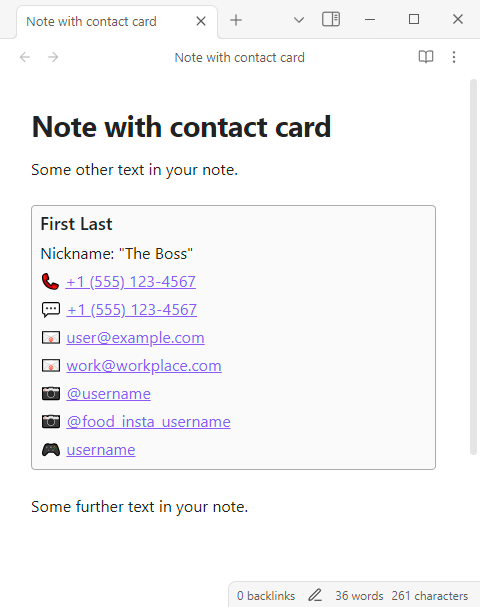
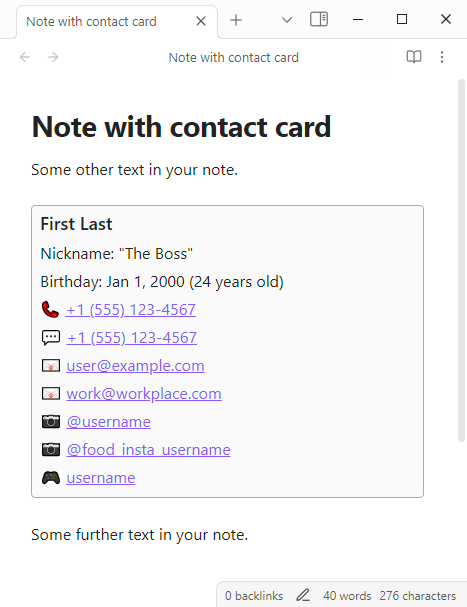
Add birthday support

diff --git a/main.ts b/main.ts
@@ -7,6 +7,7 @@ interface StringToStringArr {
 interface Contact {
     name: string;
 	nickname: string[];
+	birthday: string;
     phone: string[];
     email: string[];
     insta: string[];
@@ -33,7 +34,12 @@ function parseStringsToMap(strings: string[]): StringToStringArr {
 				valueTrimmed = valueTrimmed.slice(1, -1);
 			}
 
-			const value = valueTrimmed.split(',').map(item => item.trim()).filter(item => item.length > 0);
+			let value;
+			if (key == 'birthday') {
+				value = [valueTrimmed];
+			} else {
+				value = valueTrimmed.split(',').map(item => item.trim()).filter(item => item.length > 0);
+			}
 
 			if (Array.isArray(result[key])) {
 				result[key].push(...value);
@@ -50,6 +56,7 @@ function parseMapToContact(map: StringToStringArr): Contact | null {
 	const contact: Contact = {
 		name: (map['name'] ?? [])[0],
 		nickname: (map['name'] ?? []).slice(1),
+		birthday: (map['birthday'] ?? [])[0],
 		phone: map['phone'] ?? [],
 		email: map['email'] ?? [],
 		insta: map['insta'] ?? [],
@@ -108,6 +115,27 @@ function removeLeadingAt(input: string): string {
 	return input.startsWith('@') ? input.slice(1) : input;
 }
 
+function calculateAge(birthdateString: string): number | null {
+	const birthdate = new Date(birthdateString);
+
+	// Check if the date parsing was successful
+	if (isNaN(birthdate.getTime())) {
+	    return null;
+	}
+
+	const today = new Date();
+	let age = today.getFullYear() - birthdate.getFullYear();
+	const monthDifference = today.getMonth() - birthdate.getMonth();
+	const dayDifference = today.getDate() - birthdate.getDate();
+
+	// Adjust the age if the birthdate hasn't occurred yet this year
+	if (monthDifference < 0 || (monthDifference === 0 && dayDifference < 0)) {
+	    age--;
+	}
+
+	return age;
+}
+
 export default class ContactCardPlugin extends Plugin {
 	async onload() {
 		this.registerMarkdownCodeBlockProcessor('contact', (source: string, element: HTMLElement, context: MarkdownPostProcessorContext) => {
@@ -123,6 +151,11 @@ export default class ContactCardPlugin extends Plugin {
 				}
 				if (contact.nickname.length > 0) {
 					contactCard.createDiv({ cls: 'contact-field', text: `Nickname${contact.nickname.length > 1 ? 's' : ''}: ${contact.nickname.join(', ')}`});
+				}
+				if (contact.birthday) {
+					const age = calculateAge(contact.birthday);
+					const ageString = age ? ` (${age} years old)` : '';
+					contactCard.createDiv({ cls: 'contact-field', text: `Birthday: ${contact.birthday}${ageString}`});
 				}
 				contact.phone.forEach(phone => {
 					const phoneDiv = contactCard.createDiv({ cls: 'contact-field', text: '📞 '});

diff --git a/README.md b/README.md
@@ -8,6 +8,7 @@ Some other text in your note.
 
 ```contact
 name: First Last, "The Boss"
+birthday: Jan 1, 2000
 phone: 5551234567
 email: user@example.com
 email: work@workplace.com
@@ -23,6 +24,7 @@ Some further text in your note.
 
 ## Supported fields
 - `name`
+- `birthday`
 - `phone`
 - `email`
 - `insta`
@@ -32,6 +34,8 @@ Some further text in your note.
 Fields and their values are separated by a colon. Any value may may be a list, denoted by one or more commas. Brackets are optional. Extra commas or whitespace will be ignored. You can also provide additional phone numbers, emails, etc. on separate lines as long as it starts with the field name and a colon.
 
 If you provide multiple names, any subsequent names after the first will be listed as nicknames.
+
+If you provide a [valid birthday](https://developer.mozilla.org/en-US/docs/Web/JavaScript/Reference/Global_Objects/Date/Date#date_string), a calculated age will be displayed. If not the provided birthday will be displayed as-is.
 
 Phone numbers may include a country code, but if it's excluded then +1 will be assumed. Formatting like +, (), and - may be included or excluded, but will be rendered in this standard format regardless. Each phone number will render two links: one to call, and one to message.
 
